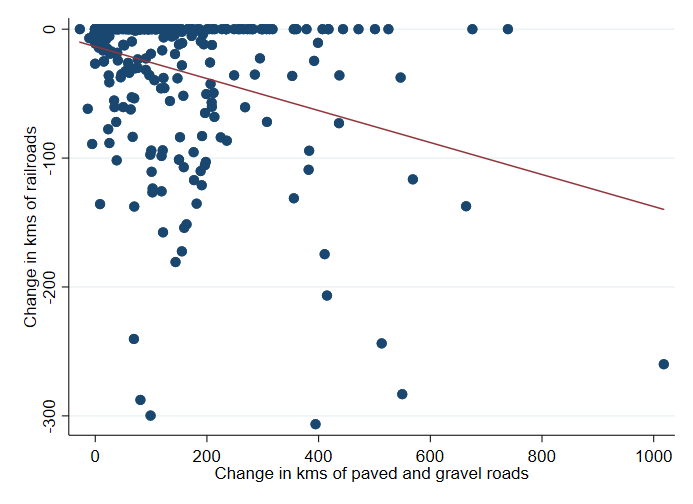
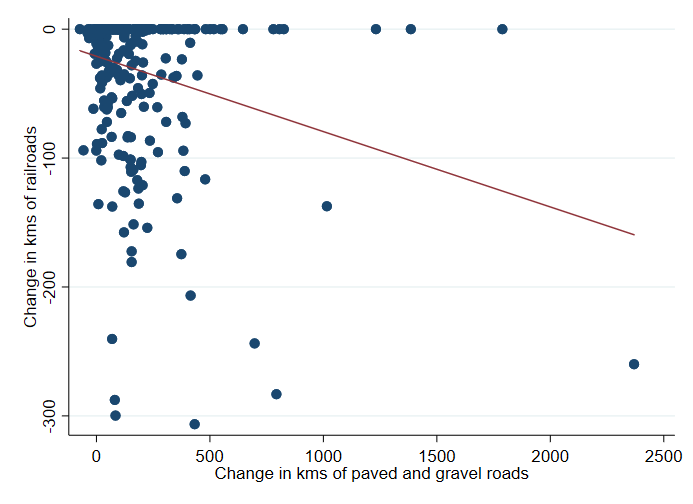
Fix pav and grav

diff --git a/analysis/output/IV_chg_log_urbpop_91_60_pav_and_grav.tex b/analysis/output/IV_chg_log_urbpop_91_60_pav_and_grav.tex
@@ -5,18 +5,18 @@
                     &\multicolumn{1}{c}{(1)}&\multicolumn{1}{c}{(2)}&\multicolumn{1}{c}{(3)}&\multicolumn{1}{c}{(4)}&\multicolumn{1}{c}{(5)}&\multicolumn{1}{c}{(6)}\\
                     &\multicolumn{1}{c}{chg\_log\_urbpop\_91\_60}&\multicolumn{1}{c}{chg\_log\_urbpop\_91\_60}&\multicolumn{1}{c}{chg\_log\_urbpop\_91\_60}&\multicolumn{1}{c}{chg\_log\_urbpop\_91\_60}&\multicolumn{1}{c}{chg\_log\_urbpop\_91\_60}&\multicolumn{1}{c}{chg\_log\_urbpop\_91\_60}\\
 \hline
-Change in kms of paved and gravel roads&     0.00143\sym{**} &     0.00111\sym{*}  &    0.000455         &     0.00146         &     0.00158         &     0.00150         \\
-                    &  (0.000625)         &  (0.000594)         &  (0.000591)         &   (0.00141)         &   (0.00143)         &   (0.00135)         \\
+Change in kms of paved and gravel roads&    0.000549\sym{**} &    0.000424\sym{**} &    0.000170         &    0.000300         &    0.000340         &    0.000325         \\
+                    &  (0.000225)         &  (0.000215)         &  (0.000217)         &  (0.000259)         &  (0.000273)         &  (0.000262)         \\
 [1em]
-Change in kms of railroads&     0.00578\sym{***}&     0.00511\sym{***}&     0.00305\sym{**} &     0.00496\sym{*}  &     0.00492\sym{**} &     0.00449\sym{*}  \\
-                    &   (0.00139)         &   (0.00131)         &   (0.00126)         &   (0.00256)         &   (0.00250)         &   (0.00236)         \\
+Change in kms of railroads&     0.00506\sym{***}&     0.00455\sym{***}&     0.00288\sym{***}&     0.00341\sym{***}&     0.00344\sym{***}&     0.00311\sym{**} \\
+                    &   (0.00112)         &   (0.00106)         &   (0.00110)         &   (0.00115)         &   (0.00125)         &   (0.00120)         \\
 [1em]
-Log urban population 1960&                     &      -0.135\sym{***}&                     &                     &                     &      -0.128\sym{***}\\
-                    &                     &    (0.0269)         &                     &                     &                     &    (0.0310)         \\
+Log urban population 1960&                     &      -0.137\sym{***}&                     &                     &                     &      -0.119\sym{***}\\
+                    &                     &    (0.0253)         &                     &                     &                     &    (0.0276)         \\
 \hline
 Geographic controls &          No         &          No         &         Yes         &          No         &         Yes         &         Yes         \\
 Province FE         &          No         &          No         &          No         &         Yes         &         Yes         &         Yes         \\
-Adj. R-squared      &   -.2843596         &   -.0888436         &    .1344192         &   -.5591047         &   -.5969023         &   -.4407665         \\
+Adj. R-squared      &   -.1367257         &    .0146548         &    .1634124         &   -.2454521         &   -.2616366         &   -.1517147         \\
 Observations        &         286         &         286         &         286         &         286         &         286         &         286         \\
 \hline\hline
 \multicolumn{7}{l}{\footnotesize Standard errors in parentheses}\\

diff --git a/analysis/output/OLS_chg_log_urbpop_91_60_pav_and_grav.tex b/analysis/output/OLS_chg_log_urbpop_91_60_pav_and_grav.tex
@@ -5,18 +5,18 @@
                     &\multicolumn{1}{c}{(1)}&\multicolumn{1}{c}{(2)}&\multicolumn{1}{c}{(3)}&\multicolumn{1}{c}{(4)}&\multicolumn{1}{c}{(5)}&\multicolumn{1}{c}{(6)}\\
                     &\multicolumn{1}{c}{chg\_log\_urbpop\_91\_60}&\multicolumn{1}{c}{chg\_log\_urbpop\_91\_60}&\multicolumn{1}{c}{chg\_log\_urbpop\_91\_60}&\multicolumn{1}{c}{chg\_log\_urbpop\_91\_60}&\multicolumn{1}{c}{chg\_log\_urbpop\_91\_60}&\multicolumn{1}{c}{chg\_log\_urbpop\_91\_60}\\
 \hline
-Change in kms of paved and gravel roads&   -0.000115         &   -0.000332         &   -0.000492\sym{**} &   -0.000663\sym{***}&   -0.000619\sym{**} &   -0.000559\sym{**} \\
-                    &  (0.000229)         &  (0.000213)         &  (0.000214)         &  (0.000234)         &  (0.000240)         &  (0.000230)         \\
+Change in kms of paved and gravel roads&    0.000156         &  -0.0000187         &   -0.000108         &   -0.000204         &   -0.000163         &   -0.000194         \\
+                    &  (0.000135)         &  (0.000128)         &  (0.000128)         &  (0.000135)         &  (0.000141)         &  (0.000135)         \\
 [1em]
-Change in kms of railroads&     0.00115\sym{**} &    0.000878\sym{*}  &    0.000293         &  -0.0000182         &  -0.0000850         &   -0.000162         \\
-                    &  (0.000562)         &  (0.000520)         &  (0.000509)         &  (0.000521)         &  (0.000535)         &  (0.000512)         \\
+Change in kms of railroads&     0.00144\sym{***}&     0.00114\sym{**} &    0.000538         &    0.000320         &    0.000215         &   0.0000533         \\
+                    &  (0.000551)         &  (0.000514)         &  (0.000509)         &  (0.000511)         &  (0.000530)         &  (0.000507)         \\
 [1em]
-Log urban population 1960&                     &      -0.160\sym{***}&                     &                     &                     &      -0.125\sym{***}\\
-                    &                     &    (0.0225)         &                     &                     &                     &    (0.0252)         \\
+Log urban population 1960&                     &      -0.156\sym{***}&                     &                     &                     &      -0.130\sym{***}\\
+                    &                     &    (0.0228)         &                     &                     &                     &    (0.0254)         \\
 \hline
 Geographic controls &          No         &          No         &         Yes         &          No         &         Yes         &         Yes         \\
 Province FE         &          No         &          No         &          No         &         Yes         &         Yes         &         Yes         \\
-Adj. R-squared      &    .0133104         &    .1609392         &    .2368411         &    .3007837         &    .2942528         &    .3534571         \\
+Adj. R-squared      &    .0170408         &    .1537915         &    .2243645         &    .2854991         &    .2796969         &    .3438149         \\
 Observations        &         286         &         286         &         286         &         286         &         286         &         286         \\
 \hline\hline
 \multicolumn{7}{l}{\footnotesize Standard errors in parentheses}\\

diff --git a/analysis/output/IV_chg_log_pop_91_60_pav_and_grav.tex b/analysis/output/IV_chg_log_pop_91_60_pav_and_grav.tex
@@ -5,18 +5,18 @@
                     &\multicolumn{1}{c}{(1)}&\multicolumn{1}{c}{(2)}&\multicolumn{1}{c}{(3)}&\multicolumn{1}{c}{(4)}&\multicolumn{1}{c}{(5)}&\multicolumn{1}{c}{(6)}\\
                     &\multicolumn{1}{c}{chg\_log\_pop\_91\_60}&\multicolumn{1}{c}{chg\_log\_pop\_91\_60}&\multicolumn{1}{c}{chg\_log\_pop\_91\_60}&\multicolumn{1}{c}{chg\_log\_pop\_91\_60}&\multicolumn{1}{c}{chg\_log\_pop\_91\_60}&\multicolumn{1}{c}{chg\_log\_pop\_91\_60}\\
 \hline
-Change in kms of paved and gravel roads&    0.000856         &    0.000702         &   -0.000440         &    0.000456         &    0.000492         &    0.000973         \\
-                    &  (0.000588)         &  (0.000503)         &  (0.000519)         &   (0.00105)         &   (0.00105)         &   (0.00104)         \\
+Change in kms of paved and gravel roads&    0.000336         &    0.000277         &   -0.000172         &    0.000102         &    0.000117         &    0.000222         \\
+                    &  (0.000223)         &  (0.000192)         &  (0.000205)         &  (0.000229)         &  (0.000242)         &  (0.000221)         \\
 [1em]
-Change in kms of railroads&     0.00667\sym{***}&     0.00528\sym{***}&     0.00332\sym{***}&     0.00407\sym{**} &     0.00422\sym{**} &     0.00399\sym{**} \\
-                    &   (0.00131)         &   (0.00115)         &   (0.00113)         &   (0.00193)         &   (0.00188)         &   (0.00177)         \\
+Change in kms of railroads&     0.00625\sym{***}&     0.00496\sym{***}&     0.00346\sym{***}&     0.00361\sym{***}&     0.00378\sym{***}&     0.00318\sym{***}\\
+                    &   (0.00109)         &  (0.000965)         &   (0.00103)         &   (0.00101)         &   (0.00110)         &   (0.00102)         \\
 [1em]
-Log population 1960 &                     &      -0.224\sym{***}&                     &                     &                     &      -0.190\sym{***}\\
-                    &                     &    (0.0255)         &                     &                     &                     &    (0.0319)         \\
+Log population 1960 &                     &      -0.221\sym{***}&                     &                     &                     &      -0.176\sym{***}\\
+                    &                     &    (0.0251)         &                     &                     &                     &    (0.0262)         \\
 \hline
 Geographic controls &          No         &          No         &         Yes         &          No         &         Yes         &         Yes         \\
 Province FE         &          No         &          No         &          No         &         Yes         &         Yes         &         Yes         \\
-Adj. R-squared      &   -.1088311         &    .1985537         &    .3332861         &   -.1957051         &   -.2189129         &   -.0983268         \\
+Adj. R-squared      &   -.0337072         &    .2497741         &    .3130332         &   -.1266127         &   -.1449797         &    .0453076         \\
 Observations        &         311         &         311         &         311         &         311         &         311         &         311         \\
 \hline\hline
 \multicolumn{7}{l}{\footnotesize Standard errors in parentheses}\\

diff --git a/analysis/output/OLS_chg_log_pop_91_60_pav_and_grav.tex b/analysis/output/OLS_chg_log_pop_91_60_pav_and_grav.tex
@@ -5,18 +5,18 @@
                     &\multicolumn{1}{c}{(1)}&\multicolumn{1}{c}{(2)}&\multicolumn{1}{c}{(3)}&\multicolumn{1}{c}{(4)}&\multicolumn{1}{c}{(5)}&\multicolumn{1}{c}{(6)}\\
                     &\multicolumn{1}{c}{chg\_log\_pop\_91\_60}&\multicolumn{1}{c}{chg\_log\_pop\_91\_60}&\multicolumn{1}{c}{chg\_log\_pop\_91\_60}&\multicolumn{1}{c}{chg\_log\_pop\_91\_60}&\multicolumn{1}{c}{chg\_log\_pop\_91\_60}&\multicolumn{1}{c}{chg\_log\_pop\_91\_60}\\
 \hline
-Change in kms of paved and gravel roads&   -0.000202         &   -0.000293         &   -0.000633\sym{***}&   -0.000593\sym{***}&   -0.000583\sym{***}&   -0.000355\sym{*}  \\
-                    &  (0.000216)         &  (0.000183)         &  (0.000189)         &  (0.000198)         &  (0.000203)         &  (0.000188)         \\
+Change in kms of paved and gravel roads&    0.000167         &   0.0000357         &   -0.000107         &   -0.000166         &   -0.000151         &  -0.0000881         \\
+                    &  (0.000125)         &  (0.000107)         &  (0.000112)         &  (0.000113)         &  (0.000119)         &  (0.000109)         \\
 [1em]
-Change in kms of railroads&     0.00256\sym{***}&     0.00177\sym{***}&     0.00150\sym{***}&     0.00102\sym{**} &     0.00101\sym{**} &    0.000732\sym{*}  \\
-                    &  (0.000555)         &  (0.000475)         &  (0.000476)         &  (0.000465)         &  (0.000476)         &  (0.000438)         \\
+Change in kms of railroads&     0.00291\sym{***}&     0.00206\sym{***}&     0.00186\sym{***}&     0.00134\sym{***}&     0.00130\sym{***}&    0.000893\sym{**} \\
+                    &  (0.000543)         &  (0.000468)         &  (0.000479)         &  (0.000457)         &  (0.000473)         &  (0.000434)         \\
 [1em]
-Log population 1960 &                     &      -0.248\sym{***}&                     &                     &                     &      -0.182\sym{***}\\
-                    &                     &    (0.0224)         &                     &                     &                     &    (0.0245)         \\
+Log population 1960 &                     &      -0.246\sym{***}&                     &                     &                     &      -0.188\sym{***}\\
+                    &                     &    (0.0226)         &                     &                     &                     &    (0.0244)         \\
 \hline
 Geographic controls &          No         &          No         &         Yes         &          No         &         Yes         &         Yes         \\
 Province FE         &          No         &          No         &          No         &         Yes         &         Yes         &         Yes         \\
-Adj. R-squared      &    .0768642         &    .3390468         &    .3639109         &    .4653133         &    .4622087         &    .5484088         \\
+Adj. R-squared      &    .0795666         &    .3337687         &    .3424747         &    .4527208         &     .449572         &    .5437609         \\
 Observations        &         311         &         311         &         311         &         311         &         311         &         311         \\
 \hline\hline
 \multicolumn{7}{l}{\footnotesize Standard errors in parentheses}\\
